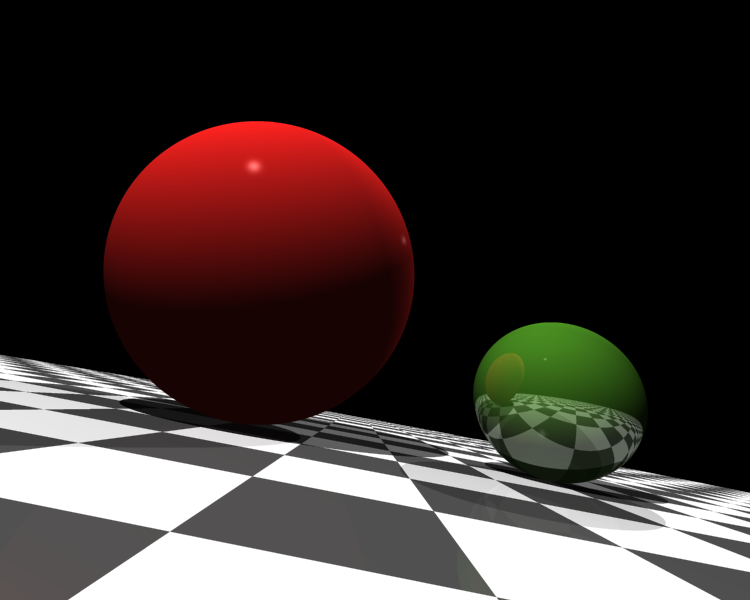
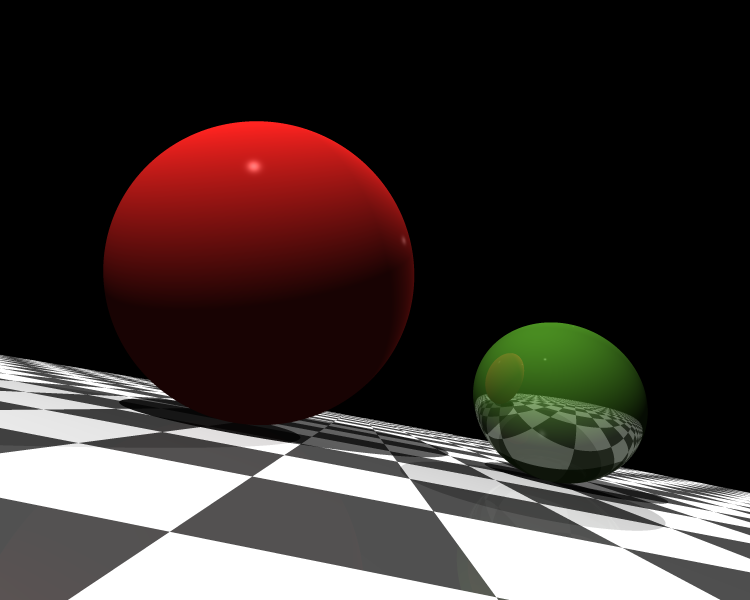
Re-rendered

diff --git a/README.md b/README.md
@@ -4,14 +4,14 @@ This is my implementation of a ray tracing program that is capable of rendering 
 ## Latest Working Version:
 
 The files containing the scene description used to render each of the following images is in the ```Ray-Tracing/scenes``` folder.
-Each pixel samples 25 rays and each ray has a maximum depth of 16 bounces.
+Each pixel samples 16 rays and each ray has a maximum depth of 10 bounces.
 Rendered on a Intel Core i5, 2 GHz
 
 ### Scene 1
 
 ![alt text](https://github.com/jmielc2/Ray-Tracing/blob/master/docs/rendered-scene-1.png?raw=true)
 
-Render Time (Release Version): 571.01 ms
+Render Time (Release Version): 561.90 ms
 
 ### Scene 2
 
@@ -23,4 +23,4 @@ Render Time (Release Version): 367.58 ms
 
 ![alt text](https://github.com/jmielc2/Ray-Tracing/blob/master/docs/rendered-scene-3.png?raw=true)
 
-Render Time  (Release Version): 736.77 ms
+Render Time  (Release Version): 730.80 ms
